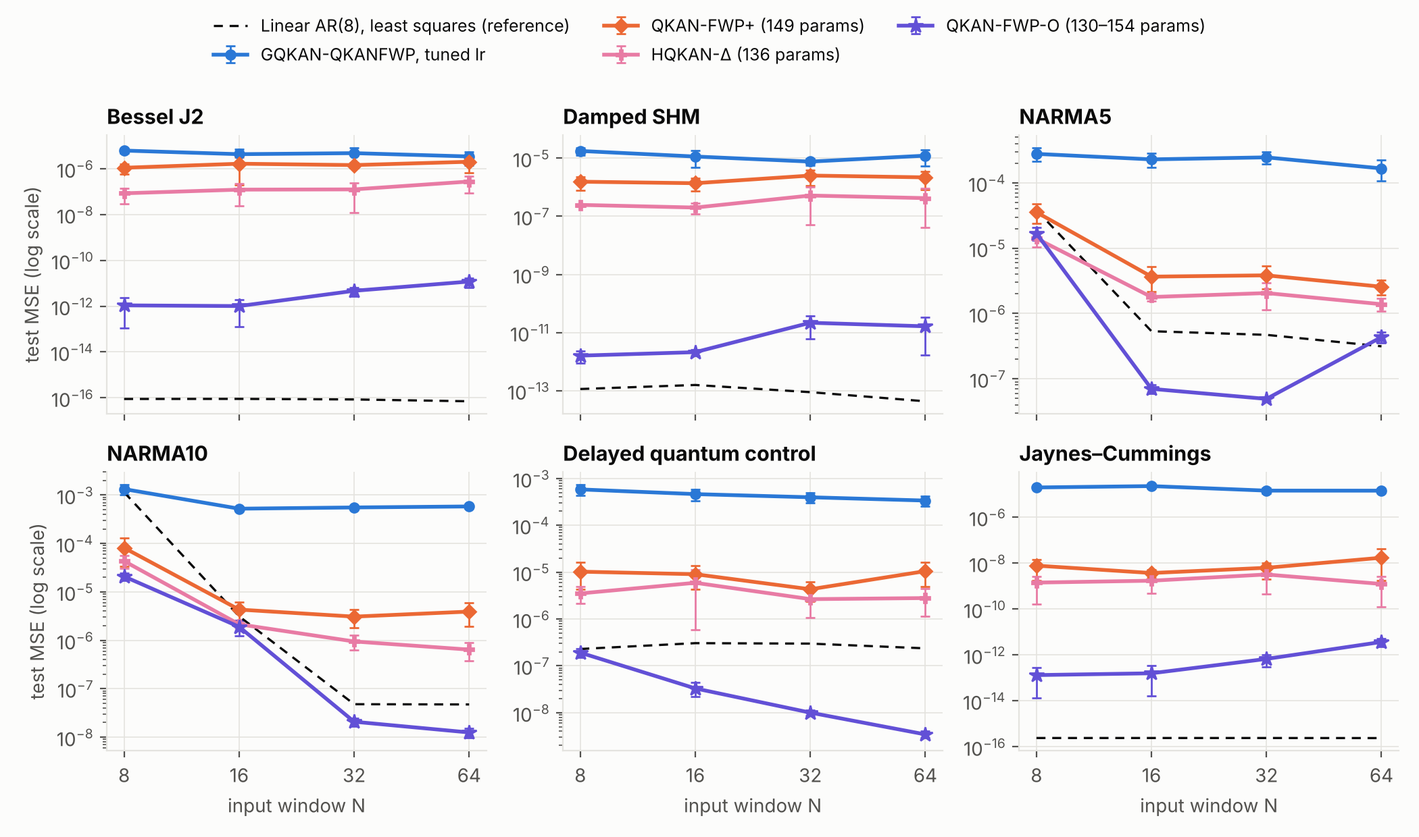
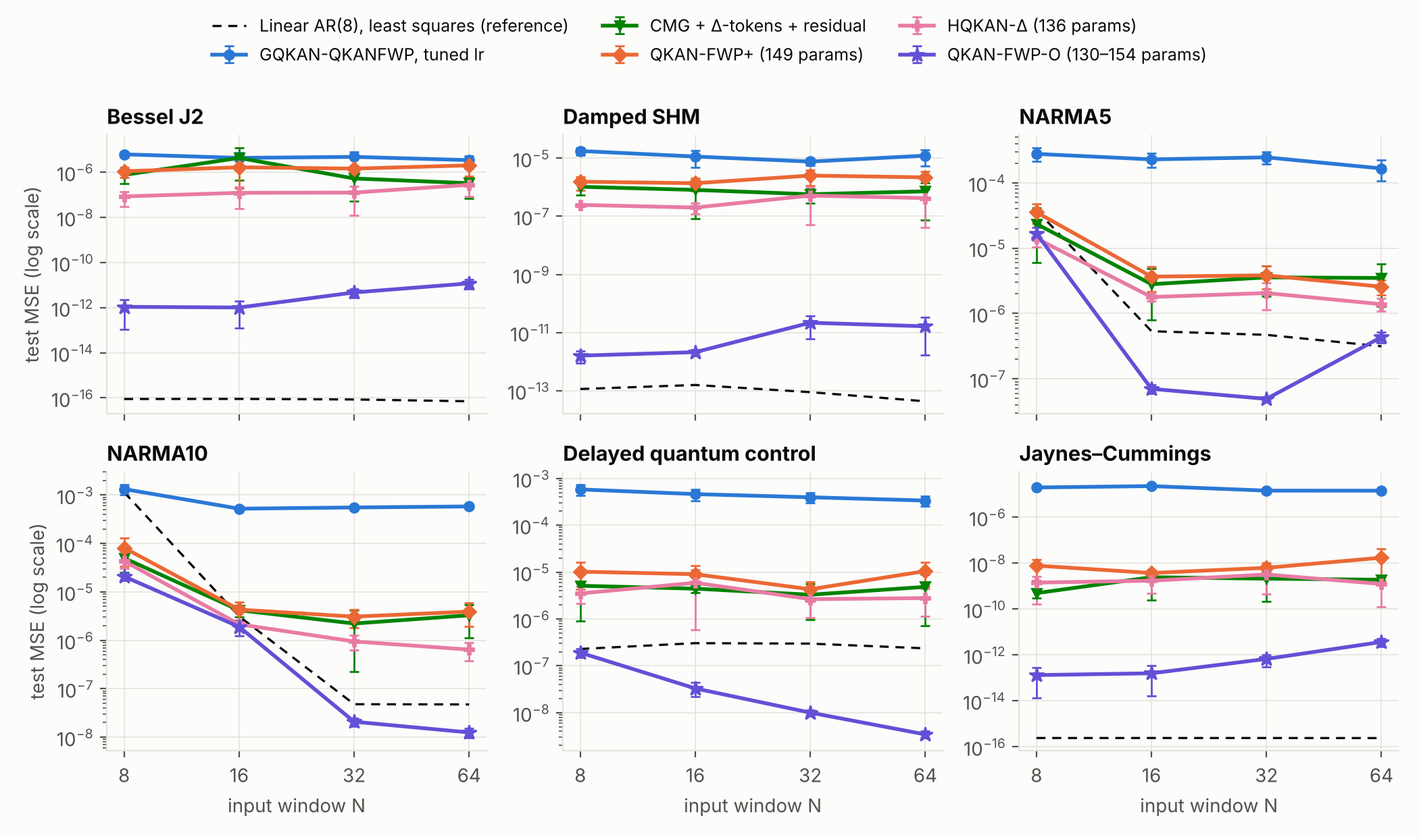
Results: Jaynes-Cummings controls, validated CMG runs, programmed-axis shots
Claude-Session: https://claude.ai/code/session_016nXnsLn5FE7GbFMSeiQvNh

diff --git a/experiments/report/report_text.py b/experiments/report/report_text.py
@@ -354,7 +354,7 @@ NEGATIVE = r'''## 9. 沒有效果、或要小心的地方
 | 太陽黑子：單獨的 chrono 初始化（scalar gate） | 0.0185 對 0.0184 | 一個 gate 只有一個時間尺度 |
 | 太陽黑子：平滑的輸出基底（QKAN-FWP+） | validation 與 test 都沒有改善 | 省 2,000 個參數，但不降誤差 |
 | 太陽黑子：QKAN-FWP-O 的 in-context 記憶 | 依 target 時間切分後，有記憶的版本在三種切分的 test MSE 都比靜態版本差（8.2 節） | 這個任務上有用的是精簡的參數化，不是記憶 |
-| 太陽黑子：論文的 window 索引切分 | 相鄰 split 的 targets 重疊 131 個月；改成依 target 時間切分後，「比 baseline 低 19–25%」不再成立（8.3 節） | Validation 看得到 test 期間的資料 |
+| 太陽黑子：論文的 window 索引切分 | 相鄰 split 的 targets 重疊 131 個月。這個切法下 QKAN-FWP-O 比 baseline 低 17–24%；依 target 時間切分後是 −17%、+4%、−19%（8.2、8.3 節） | Validation 看得到 test 期間的資料 |
 | QKAN-FWP-O：切線特徵 $u\,\partial\mathbf n/\partial u$（可用 parameter-shift 量得，讓 context 對電路頻率做一階調整） | 論文 benchmark 的 validation 上，4 個電路＋切線特徵（140 參數）不如 6 個電路（154 參數）：幾何平均 6.3e-9 對 3.3e-9。和同為 4 個電路的版本比（單一 seed），無雜訊的 Duffing 好 5.6 倍、Hénon 好約 10%，有雜訊的 Duffing 沒有改善 | 對非線性系統有幫助，但同樣的參數用在更多電路效果相當或更好；程式保留為選項（`tangent`） |
 
 兩個資料上的注意事項：
@@ -490,8 +490,9 @@ RESULTS_TS = r'''## 5. 結果：論文的六個 time-series benchmark
 - **差距的大小依資料集而定，不能用一個數字概括。** 對 HQKAN-Δ：Bessel 與 Damped SHM 低四到五個數量級，Jaynes–Cummings 低三個數量級，
   DQC 低兩個數量級，**NARMA 只低 7–9 倍**。整體幾何平均（683 倍）主要由那三條幾乎線性的序列決定；
   其中 Jaynes–Cummings 的差距來自線性項與數值精度，不是來自記憶（5.4 節）。
-- **CMG**：照 CMG 論文的設定（純量 token、188 參數），lr 由 validation 選出後和 scalar gate 的 baseline 同一個水準。
-  給它相同的 Δ-token 與 residual 讀出之後，它和 QKAN-FWP+ 相當或略好，但仍然輸給沒有記憶的 HQKAN-Δ。
+- **CMG**：照 CMG 論文的設定（純量 token、188 參數），lr 由 validation 選出後和 scalar gate 的 baseline 同一個水準
+  （Bessel、Damped SHM 與 Jaynes–Cummings 較好，NARMA 與 DQC 沒有改善）。給它相同的 Δ-token 與 residual 讀出之後，
+  它比 QKAN-FWP+ 好 2 倍（24 格中 22 格），但整體仍比沒有記憶的 HQKAN-Δ 差 2 倍（24 格中 21 格較差；Jaynes–Cummings 上兩者相當）。
 - **HQKAN-Δ 在每一格都比 QKAN-FWP+ 好**：在這些 benchmark 上，「由 slow programmer 產生旋轉角」這種型態的記憶沒有幫助，
   把同樣的參數放進靜態網路反而更好。因為這個結論重要，QKAN-FWP+ 與 HQKAN-Δ 另外各加跑 10 個 seed
   （`results/extra_seeds.jsonl`，5 個序列 × N ∈ {16, 64}）：15 個 seed 合計 HQKAN-Δ 好 2.5 倍，10 格中贏 9 格。
@@ -558,8 +559,8 @@ Jaynes–Cummings 單獨列在它自己那一欄。
 
 - **沒有記憶。** 參數量相當（9 個電路，最多 154 個參數）的靜態模型在五個 300 點序列上差 164 倍，和 6 個電路的靜態模型（190 倍）同一個水準：
   Bessel 與 Damped SHM 差三到四個數量級，DQC 差 55 倍，NARMA 差 5–7 倍。差距不是參數量造成的。
-  **Jaynes–Cummings 是例外**：這條 3000 點的序列嚴格滿足線性遞迴，靜態版本靠線性項就能用梯度訓練擬合到 4e-13，
-  記憶沒有帶來額外的好處。QKAN-FWP-O 在 Jaynes–Cummings 上對 HQKAN-Δ 的優勢因此來自線性項與數值精度，不是記憶。
+  **Jaynes–Cummings 是例外**：這條 3000 點的序列嚴格滿足線性遞迴，靜態版本靠線性項就能用梯度訓練擬合到 1.3e-13（9 個電路）
+  與 4.0e-13（6 個電路），和有記憶的版本（4.7e-13）相當或更低；記憶沒有帶來額外的好處。QKAN-FWP-O 在 Jaynes–Cummings 上對 HQKAN-Δ 的優勢因此來自線性項與數值精度，不是記憶。
 - **指數加權 RLS**（先驗只當初始值，$C_t = gC_{t-1} + (1-g)k_tk_t^\top$）整體是 0.54 倍，也就是**比主模型好**：
   Bessel 好 3.5 倍、Damped SHM 好 14 倍、DQC 好 1.6 倍，NARMA 則差 1.8 倍。它的有效先驗是 $\Lambda_0\prod_t g_t$，context 越長越弱，
   所以在沒有雜訊的平滑序列上擬合得更準；NARMA 只用最近一兩個配對（見下），先驗被忘掉之後反而較差。
@@ -728,7 +729,8 @@ query 的量測基底可以由 context 決定（7.3 節），以及 context 與 
 可以用這個欄位換算（例如 HQKAN-Δ 在同樣的總預算下可以用 4.5 倍的 $S$）。
 
 每個模型訓練兩次：用精確期望值，以及訓練時就帶著 $S = 10^4$ 的抽樣雜訊（noise-aware）。
-系統族的兩個任務所有模型都用 lr 3e-2。
+系統族的兩個任務所有模型都用 lr 3e-2。QKAN-FWP-O 有三列：預設（所有電路量 X、Y、Z）、query 改沿 context 決定的量測軸讀出（7.3 節），
+以及內部用 float32 的版本（7.2 節）。
 
 ![shots](figures/om_shots.png)
 
@@ -738,16 +740,17 @@ query 的量測基底可以由 context 決定（7.3 節），以及 context 與 
   Hénon 在 $S \le 10^3$ 時比另外兩個模型差一個數量級。學到的先驗精度很小（7.2 節），量測雜訊被線性求解放大。
 - **Noise-aware 訓練大幅改善**，而且在接近線性的任務上（Bessel、DQC、阻尼振盪）幾乎不再受 $S$ 影響：$S = 10^2$ 時 Bessel 是 8.7e-11、
   DQC 是 7.8e-7。但原因要說清楚：模型改為主要依賴 base-activation 的**線性項——它是古典計算的，沒有量測雜訊**——
-  而把帶雜訊的 Bloch 特徵的權重降下來。這等於退回 5.4 節的古典對照組；在這些任務上量子特徵本來就沒有貢獻。
+  而把帶雜訊的 Bloch 特徵的權重降下來。這等於退回 5.4 節「只留線性項」的對照；在這些任務上非線性特徵本來就幾乎沒有貢獻。
 - **真正需要非線性特徵的 Hénon map 才是有意義的測試。** Noise-aware 的 QKAN-FWP-O 在 $S = 10^4$ 是 2.8e-4（HQKAN-Δ 1.6e-3、
   QKAN-FWP+ 1.0e-3），$S = 10^3$ 時三者相當（1.6e-3／2.3e-3／2.3e-3），**$S = 10^2$ 時輸給 HQKAN-Δ**（1.4e-2 對 9.0e-3）。
-  而且 HQKAN-Δ 每次預測只跑 12 個電路，QKAN-FWP-O 是 54 個：以相同的總量測次數比較，QKAN-FWP-O 在 Hénon 上要到每次預測
-  約 $5\times10^5$ 次量測（$S \approx 10^4$）以上才有優勢。
+  Query 改沿 context 決定的量測軸讀出之後是 2.1e-4、1.2e-3、9.7e-3：$S = 10^3$ 時比另外兩個模型低約 2 倍，$S = 10^2$ 時與 HQKAN-Δ 相當。
+  但 HQKAN-Δ 每次預測只跑 12 個電路，QKAN-FWP-O 是 54 個：以相同的總量測次數比較，QKAN-FWP-O 在 Hénon 上要到每次預測
+  約 $10^5$ 次量測以上才有明顯的優勢。
 - **NARMA10**：兩種訓練方式下 QKAN-FWP-O 在 $S \le 10^4$ 都低於另外兩個模型（$S = 10^2$ 時 7e-5 ～ 1.4e-4 對 7e-4 ～ 2.7e-3），
   $S$ 更大時三者同一個量級。
 - 另外兩個模型同樣受量測雜訊影響：$S \le 10^3$ 時它們的誤差由量測雜訊主導、大致與 $1/S$ 成正比。
-- 第 6 節的古典特徵對照組（同一個記憶配上 tanh 特徵）完全不需要量測，所以沒有這一節討論的任何退化。
-  在本報告測過的任務上，它在精確期望值下已經和 QKAN-FWP-O 一樣好；有限量測次數只會讓量子電路的版本更差。
+- 第 6 節用古典特徵的對照（同一個記憶配上 Fourier、tanh 或 MLP 特徵）完全不需要量測，所以沒有這一節討論的任何退化。
+  在本報告測過的任務上，它們在精確期望值下已經和 QKAN-FWP-O 一樣好或更好；有限量測次數只會讓量子電路的版本更差。
 - 這裡只有統計（shot）雜訊，沒有硬體的閘誤差與退相干；真機沒有測。
 
 ### 7.2 Gram 矩陣的條件數與單精度
@@ -758,8 +761,9 @@ $C_T \succeq \Lambda_0$，所以條件數不超過 $(\lambda_{\max}(\Lambda_0) +
 <<shots_cond>>
 
 - 條件數的中位數在論文的 benchmark 上約為 $10^5$–$10^6$：先驗精度的初值 $10^{-5}$ 是在 validation 上選的，在這些乾淨的序列上
-  訓練後大致停在那裡（5.4 節的表）。在有雜訊的系統族上模型把先驗精度學大，條件數約為 $10^2$；noise-aware 訓練也會學到較大的
-  先驗精度，條件數降 3–10 倍（Bessel 例外）。量測次數本身幾乎不改變條件數：它由先驗精度與特徵的尺度決定。
+  訓練後大致停在那裡（5.4 節的記憶權重表）。在有雜訊的系統族上模型把先驗精度學大，條件數約為 $10^2$；noise-aware 訓練也會學到較大的
+  先驗精度，條件數在 NARMA10、DQC 與 Hénon 上降 3–20 倍（Bessel 與有雜訊的阻尼振盪不變）。
+  量測次數本身幾乎不改變條件數：它由先驗精度與特徵的尺度決定。
 - **單精度。** 其他模型都在 float32 下訓練，QKAN-FWP-O 預設用 float64，這是不對稱的。把特徵、統計量與求解全部改成 float32
   （`precision='float32'`；token 與增量仍和其他模型一樣先用 float64 形成）之後，上表五個任務的 MSE 與 float64 幾乎相同，
   Bessel 仍是 1.4e-12。條件數 $10^6$ 乘上 float32 的 $6\times10^{-8}$ 表示 $R_T$ 的各個分量只有一到兩位有效數字，
@@ -889,7 +893,8 @@ RESULTS_SOLAR = r'''## 8. 結果：太陽黑子週期預測
 在論文的切法下，QKAN-FWP-O 的兩個版本在三種比例都比重新實作的 baseline 低 17–25%，有記憶的版本在 80/10/10 還是最低的（0.0134）。
 **這些數字不能當成預測優勢的證據**：validation 的 targets 延伸到 test 期間，checkpoint 與 lr 的選擇看得到當時還沒發生的資料。
 改成依 target 時間切分之後（8.2 節），有記憶的版本在 80/10/10 從 0.0134 變成 0.0173，baseline 從 0.0177 變成 0.0208，
-「三種切分都低 19–25%」的結論不再成立。這一節的表只用來和論文印出的數字（同樣的切法）對照：重新實作的 baseline 是 0.0177，論文印的是 0.0168。
+它相對 baseline 的差距在三種切分變成 −17%、+4%、−19%。這一節的表只用來和論文印出的數字（同樣的切法）對照：
+重新實作的 baseline 是 0.0177，論文印的是 0.0168。
 
 QKAN-FWP+ 的兩個部分（同樣是論文的切法，lr 2.5e-3；下面的圖也是這個切法下的預測）：
 
@@ -957,7 +962,7 @@ SUMMARY = r'''## 摘要
      5% 時是 1.6 倍；HQKAN-Δ 與 QKAN-FWP+ 是 13–20 倍與約 190–290 倍。把同一個誤差只放在 query 的電路，Bessel 差 8 萬倍——
      誤差是因為同時出現在 context 與 query 才被最小平方吸收（7.4 節）。
 4. **論文型態的記憶（由 slow programmer 產生旋轉角）在這些 benchmark 上沒有幫助**：沒有 fast weights 的 HQKAN-Δ
-   在每一格都比 QKAN-FWP+ 好（15 個 seed 合計 2.5 倍），也比給了相同 token 的 CMG 好。有用的是記憶的型態，不是有沒有記憶。
+   在每一格都比 QKAN-FWP+ 好（15 個 seed 合計 2.5 倍），也在 24 格中的 21 格比給了相同 token 的 CMG 好。有用的是記憶的型態，不是有沒有記憶。
 5. **太陽黑子**（第 8 節）：論文對 sliding window 的索引做切分，相鄰 split 的 targets 重疊 131 個月。改成依 target 時間切分之後，
    沒有模型穩定贏過零參數的「重複上一個週期」；QKAN-FWP-O 的靜態版本以 496 個參數（論文模型的 4%）在三種切分上都比重新實作的
    baseline 低（7–28%），有記憶的版本則比靜態版本差。

diff --git a/results/tables_om.md b/results/tables_om.md
@@ -14,7 +14,7 @@
 | NARMA5 | 6.5e-06 | 2.3e-04 | 2.8e-04 | 5.4e-06 | 6.0e-06 | 2.9e-06 | **4.0e-07** | *1.3e-06* |
 | NARMA10 | 9.5e-06 | 6.9e-04 | 7.6e-04 | 6.3e-06 | 8.1e-06 | 2.7e-06 | **3.2e-07** | *1.7e-06* |
 | Delayed quantum control | 5.5e-06 | 4.4e-04 | 7.5e-04 | 4.4e-06 | 8.0e-06 | 3.5e-06 | **2.2e-08** | *2.6e-07* |
-| Jaynes–Cummings | 7.6e-06 | 1.7e-05 | 6.5e-06 | – | 7.4e-09 | 1.7e-09 | **4.7e-13** | *2.4e-16* |
+| Jaynes–Cummings | 7.6e-06 | 1.7e-05 | 6.5e-06 | 1.5e-09 | 7.4e-09 | 1.7e-09 | **4.7e-13** | *2.4e-16* |
 
 ## Each model against every reference (geometric-mean test-MSE factor; in brackets: cells where the model is lower)
 
@@ -28,7 +28,7 @@ Values below 1e-15 (rounding of the float32 targets) are clipped at 1e-15 before
 | G-QKANFWP, tuned lr | 175 | 33× lower (23/24) | 129× lower (24/24) | 8.8e4× lower (24/24) |
 | CMG, lr 1e-3 | 188 | 123× lower (20/20) | 478× lower (20/20) | 2.3e5× lower (20/20) |
 | CMG, tuned lr | 188 | 31× lower (21/24) | 122× lower (24/24) | 8.3e4× lower (24/24) |
-| CMG + Δ-tokens + residual, tuned lr | 173 | 1.6× higher (2/20) | 2.4× lower (19/20) | 1166× lower (20/20) |
+| CMG + Δ-tokens + residual, tuned lr | 173 | 2× higher (2/24) | 2× lower (21/24) | 1372× lower (24/24) |
 | QKAN-FWP+ | 149 | – | 3.9× lower (24/24) | 2688× lower (24/24) |
 | HQKAN-Δ | 136 | 3.9× higher (0/24) | – | 683× lower (23/24) |
 | *Printed for GQKAN-QKANFWP in arXiv:2605.06734* | 159 | 40× lower (23/24) | 158× lower (24/24) | 1.1e5× lower (24/24) |
@@ -43,7 +43,7 @@ Geometric mean over the four windows per dataset; the last two columns count the
 |---|---|---|---|---|---|---|---|---|
 | GQKAN-QKANFWP, tuned lr | 1.6e6× | 2.0e6× | 568× | 2165× | 2.0e4× | 3.6e7× | 24/24 | 17× … 1.5e8× |
 | CMG, tuned lr | 9.5e5× | 4.3e5× | 715× | 2388× | 3.5e4× | 1.4e7× | 24/24 | 19× … 1.1e8× |
-| CMG + Δ-tokens + residual, tuned lr | 3.1e5× | 1.3e5× | 13× | 20× | 202× | – | 20/20 | 1.4× … 4.2e6× |
+| CMG + Δ-tokens + residual, tuned lr | 3.1e5× | 1.3e5× | 13× | 20× | 202× | 3085× | 24/24 | 1.4× … 4.2e6× |
 | QKAN-FWP+ | 5.4e5× | 3.2e5× | 15× | 25× | 373× | 1.6e4× | 24/24 | 2.1× … 1.6e6× |
 | HQKAN-Δ | 4.9e4× | 5.5e4× | 7.3× | 8.6× | 163× | 3677× | 23/24 | 0.84× … 1.6e5× |
 | *Linear AR(8), least squares* | 0.00036× | 0.015× | 3.3× | 5.3× | 12× | 0.0021× | 11/24 | 8.4e-05× … 69× |
@@ -72,10 +72,10 @@ Geometric mean over the four windows per dataset; the last two columns count the
 | Delayed quantum control | 16 | 2.04e-03 ± 4.3e-04 | 4.63e-04 ± 1.3e-04 | 1.27e-03 ± 1.9e-04 | 4.72e-04 ± 6.8e-05 | 3.42e-03 ± 1.6e-03 | 1.12e-03 ± 3.4e-04 | 4.44e-06 ± 8.2e-07 | 9.03e-06 ± 4.8e-06 | 5.92e-06 ± 5.4e-06 | **3.30e-08 ± 1.1e-08** | *3.0e-07* |
 | Delayed quantum control | 32 | 1.91e-03 ± 6.1e-04 | 3.96e-04 ± 9.7e-05 | 8.12e-04 ± 2.1e-04 | 3.15e-04 ± 9.4e-05 | 2.71e-03 ± 8.4e-04 | 5.08e-04 ± 1.3e-04 | 3.30e-06 ± 2.3e-06 | 4.31e-06 ± 2.0e-06 | 2.65e-06 ± 1.6e-06 | **1.00e-08 ± 1.3e-09** | *3.0e-07* |
 | Delayed quantum control | 64 | 1.20e-03 ± 3.3e-04 | 3.37e-04 ± 8.5e-05 | 8.04e-04 ± 7.4e-05 | 3.15e-04 ± 1.1e-04 | 2.90e-03 ± 1.5e-03 | 5.79e-04 ± 1.4e-04 | 4.85e-06 ± 4.1e-06 | 1.05e-05 ± 5.6e-06 | 2.80e-06 ± 1.6e-06 | **3.44e-09 ± 5.7e-10** | *2.4e-07* |
-| Jaynes–Cummings | 8 | 2.75e-05 ± 1.7e-05 | 1.95e-05 ± 2.5e-06 | 5.04e-05 ± 1.1e-05 | 1.55e-05 ± 4.8e-06 | – | 1.48e-05 ± 2.1e-06 | – | 7.71e-09 ± 6.0e-09 | 1.41e-09 ± 1.2e-09 | **1.32e-13 ± 1.5e-13** | *2.4e-16* |
-| Jaynes–Cummings | 16 | 4.25e-05 ± 4.8e-05 | 2.24e-05 ± 3.5e-06 | 5.25e-05 ± 2.1e-06 | 1.01e-05 ± 2.6e-06 | – | 6.00e-06 ± 4.6e-06 | – | 3.68e-09 ± 1.5e-09 | 1.70e-09 ± 1.2e-09 | **1.58e-13 ± 1.7e-13** | *2.4e-16* |
-| Jaynes–Cummings | 32 | 3.38e-05 ± 4.1e-05 | 1.42e-05 ± 3.6e-06 | 2.02e-05 ± 4.1e-06 | 1.13e-05 ± 3.8e-06 | – | 2.94e-06 ± 3.1e-06 | – | 6.20e-09 ± 4.2e-09 | 3.17e-09 ± 2.7e-09 | **6.68e-13 ± 3.8e-13** | *2.4e-16* |
-| Jaynes–Cummings | 64 | 6.66e-05 ± 5.4e-05 | 1.42e-05 ± 2.6e-06 | 2.71e-05 ± 6.1e-06 | 1.02e-05 ± 2.9e-06 | – | 6.88e-06 ± 6.3e-06 | – | 1.71e-08 ± 2.6e-08 | 1.22e-09 ± 1.4e-09 | **3.65e-12 ± 1.4e-12** | *2.4e-16* |
+| Jaynes–Cummings | 8 | 2.75e-05 ± 1.7e-05 | 1.95e-05 ± 2.5e-06 | 5.04e-05 ± 1.1e-05 | 1.55e-05 ± 4.8e-06 | – | 1.48e-05 ± 2.1e-06 | 4.89e-10 ± 1.9e-10 | 7.71e-09 ± 6.0e-09 | 1.41e-09 ± 1.2e-09 | **1.32e-13 ± 1.5e-13** | *2.4e-16* |
+| Jaynes–Cummings | 16 | 4.25e-05 ± 4.8e-05 | 2.24e-05 ± 3.5e-06 | 5.25e-05 ± 2.1e-06 | 1.01e-05 ± 2.6e-06 | – | 6.00e-06 ± 4.6e-06 | 2.41e-09 ± 2.3e-09 | 3.68e-09 ± 1.5e-09 | 1.70e-09 ± 1.2e-09 | **1.58e-13 ± 1.7e-13** | *2.4e-16* |
+| Jaynes–Cummings | 32 | 3.38e-05 ± 4.1e-05 | 1.42e-05 ± 3.6e-06 | 2.02e-05 ± 4.1e-06 | 1.13e-05 ± 3.8e-06 | – | 2.94e-06 ± 3.1e-06 | 2.09e-09 ± 1.9e-09 | 6.20e-09 ± 4.2e-09 | 3.17e-09 ± 2.7e-09 | **6.68e-13 ± 3.8e-13** | *2.4e-16* |
+| Jaynes–Cummings | 64 | 6.66e-05 ± 5.4e-05 | 1.42e-05 ± 2.6e-06 | 2.71e-05 ± 6.1e-06 | 1.02e-05 ± 2.9e-06 | – | 6.88e-06 ± 6.3e-06 | 1.87e-09 ± 7.7e-10 | 1.71e-08 ± 2.6e-08 | 1.22e-09 ± 1.4e-09 | **3.65e-12 ± 1.4e-12** | *2.4e-16* |
 
 ## Closed-form linear autoregression against the best models (test MSE)
 
@@ -117,11 +117,11 @@ Geometric mean over the four windows per dataset; the last two columns count the
 |---|---|---|---|---|---|---|---|---|
 | Bloch vectors of 6 circuits, reps = 1 (QKAN-FWP-O) | 130–154 | 2.8e-12 | 5.9e-12 | 4.0e-07 | 3.2e-07 | 2.2e-08 | 4.7e-13 | – |
 | cos u, sin u of the same 6 units (same function space, no circuit) | 88–112 | 2.9e-12 | 6.0e-12 | 4.2e-07 | 4.3e-07 | 2.5e-08 | – | 1.1× |
-| cos u, sin u of 8 units (same number of features) | 116–148 | 2.0e-12 | 4.6e-12 | 3.7e-07 | 3.1e-07 | 3.1e-08 | – | 0.94× |
+| cos u, sin u of 8 units (same number of features) | 116–148 | 2.0e-12 | 4.6e-12 | 3.7e-07 | 3.1e-07 | 3.1e-08 | 5.0e-13 | 0.94× |
 | cos(w·u + b), 3 per unit, w and b trainable | 142–166 | 2.7e-12 | 6.4e-12 | 4.2e-07 | 5.3e-07 | 2.0e-08 | 4.4e-13 | 1.1× |
 | tanh(w·u + b), 3 per unit | 142–166 | 2.5e-12 | 5.5e-12 | 4.4e-07 | 2.9e-07 | 2.1e-08 | 3.8e-13 | 0.95× |
-| products u_i·u_j (quadratic polynomial) | 115–139 | 8.8e-13 | 8.2e-12 | 5.2e-07 | 5.4e-07 | 5.3e-08 | – | 1.2× |
-| 8 tanh units of a second layer (small MLP) | 132–156 | 1.7e-12 | 2.9e-12 | 6.3e-07 | 3.1e-07 | 2.6e-08 | – | 0.89× |
+| products u_i·u_j (quadratic polynomial) | 115–139 | 8.8e-13 | 8.2e-12 | 5.2e-07 | 5.4e-07 | 5.3e-08 | 2.2e-13 | 1.2× |
+| 8 tanh units of a second layer (small MLP) | 132–156 | 1.7e-12 | 2.9e-12 | 6.3e-07 | 3.1e-07 | 2.6e-08 | 1.6e-13 | 0.89× |
 | linear term only | 52–76 | 1.4e-12 | 1.9e-11 | 6.4e-07 | 4.5e-07 | 4.9e-08 | 1.1e-13 | 1.5× |
 
 ## Same features, different memory rule on the paper benchmarks (test MSE, geometric mean over the four windows; last column: factor to the first row over the 20 cells of the five 300-point series)
@@ -133,7 +133,7 @@ Geometric mean over the four windows per dataset; the last two columns count the
 | least squares without gate (uniform weights) | 104–128 | 3.4e-12 | 3.0e-12 | 1.2e-06 | 1.5e-06 | 3.0e-08 | – | 1.7× |
 | normalised delta rule, 4 sweeps over the context | 130–154 | 1.3e-09 | 3.9e-08 | 9.5e-07 | 1.5e-06 | 4.5e-07 | – | 59× |
 | normalised delta rule, 1 sweep | 130–154 | 2.5e-09 | 2.3e-08 | 9.2e-07 | 1.5e-06 | 4.9e-07 | – | 62× |
-| no memory, 9 circuits (same number of parameters) | 118–154 | 1.4e-08 | 8.5e-08 | 2.0e-06 | 2.0e-06 | 1.2e-06 | – | 164× |
+| no memory, 9 circuits (same number of parameters) | 118–154 | 1.4e-08 | 8.5e-08 | 2.0e-06 | 2.0e-06 | 1.2e-06 | 1.3e-13 | 164× |
 | no memory, 6 circuits | 79–103 | 2.4e-08 | 9.3e-08 | 2.1e-06 | 2.2e-06 | 1.2e-06 | 4.0e-13 | 190× |
 
 ## QKAN-FWP-O ablation on the paper benchmarks (test MSE ÷ full model, geometric mean over the cells both have)
@@ -268,6 +268,8 @@ S shots are available to every circuit for every input it processes. A ⟨Z⟩ r
 |---|---|---|---|---|---|---|---|---|---|
 | Bessel J2 | QKAN-FWP-O | 54 | exact | 5.1e-06 | 6.9e-07 | 9.0e-08 | 1.3e-08 | 1.7e-09 | 1.4e-12 |
 | Bessel J2 | QKAN-FWP-O | 54 | S = 10⁴ | 8.7e-11 | 1.4e-11 | 3.1e-12 | 3.0e-13 | 5.8e-14 | 2.7e-14 |
+| Bessel J2 | QKAN-FWP-O, query read along the programmed axis | 54 | exact | 2.8e-06 | 4.4e-07 | 5.4e-08 | 1.1e-08 | 1.3e-09 | 1.4e-12 |
+| Bessel J2 | QKAN-FWP-O, query read along the programmed axis | 54 | S = 10⁴ | 3.4e-11 | 6.6e-12 | 1.8e-12 | 2.5e-13 | 4.5e-14 | 2.2e-14 |
 | Bessel J2 | QKAN-FWP-O, float32 | 54 | exact | 5.4e-06 | 7.0e-07 | 8.7e-08 | 1.3e-08 | 1.7e-09 | 1.4e-12 |
 | Bessel J2 | QKAN-FWP-O, float32 | 54 | S = 10⁴ | 7.0e-11 | 1.6e-11 | 3.6e-12 | 4.0e-13 | 6.6e-14 | 3.2e-14 |
 | Bessel J2 | HQKAN-Δ, ⟨Z⟩ read-out | 12 | exact | 2.2e-03 | 2.4e-04 | 2.3e-05 | 2.5e-06 | 5.2e-07 | 2.8e-07 |
@@ -276,6 +278,8 @@ S shots are available to every circuit for every input it processes. A ⟨Z⟩ r
 | Bessel J2 | QKAN-FWP+, ⟨Z⟩ read-out | 92 | S = 10⁴ | 1.5e-03 | 1.6e-04 | 1.6e-05 | 2.2e-06 | 9.1e-07 | 7.4e-07 |
 | NARMA10 | QKAN-FWP-O | 54 | exact | 1.4e-04 | 3.1e-05 | 8.8e-06 | 3.7e-06 | 2.2e-06 | 2.0e-06 |
 | NARMA10 | QKAN-FWP-O | 54 | S = 10⁴ | 7.3e-05 | 1.6e-05 | 8.0e-06 | 5.9e-06 | 5.4e-06 | 5.3e-06 |
+| NARMA10 | QKAN-FWP-O, query read along the programmed axis | 54 | exact | 1.0e-04 | 2.6e-05 | 8.2e-06 | 3.6e-06 | 2.2e-06 | 2.0e-06 |
+| NARMA10 | QKAN-FWP-O, query read along the programmed axis | 54 | S = 10⁴ | 4.1e-05 | 8.6e-06 | 4.0e-06 | 2.8e-06 | 2.5e-06 | 2.4e-06 |
 | NARMA10 | QKAN-FWP-O, float32 | 54 | exact | 4.1e-04 | 9.1e-05 | 2.2e-05 | 1.1e-05 | 9.2e-06 | 8.9e-06 |
 | NARMA10 | QKAN-FWP-O, float32 | 54 | S = 10⁴ | 1.1e-04 | 2.1e-05 | 6.5e-06 | 3.9e-06 | 3.4e-06 | 3.3e-06 |
 | NARMA10 | HQKAN-Δ, ⟨Z⟩ read-out | 12 | exact | 1.4e-03 | 1.4e-04 | 1.7e-05 | 4.3e-06 | 3.0e-06 | 2.9e-06 |
@@ -284,6 +288,8 @@ S shots are available to every circuit for every input it processes. A ⟨Z⟩ r
 | NARMA10 | QKAN-FWP+, ⟨Z⟩ read-out | 92 | S = 10⁴ | 1.7e-03 | 2.1e-04 | 2.9e-05 | 1.3e-05 | 1.1e-05 | 1.1e-05 |
 | Delayed quantum control | QKAN-FWP-O | 54 | exact | 7.8e-05 | 1.2e-05 | 2.5e-06 | 5.0e-07 | 1.2e-07 | 3.2e-08 |
 | Delayed quantum control | QKAN-FWP-O | 54 | S = 10⁴ | 7.8e-07 | 1.8e-07 | 7.4e-08 | 5.1e-08 | 4.9e-08 | 4.8e-08 |
+| Delayed quantum control | QKAN-FWP-O, query read along the programmed axis | 54 | exact | 3.9e-05 | 7.8e-06 | 1.8e-06 | 4.6e-07 | 1.0e-07 | 3.2e-08 |
+| Delayed quantum control | QKAN-FWP-O, query read along the programmed axis | 54 | S = 10⁴ | 3.8e-07 | 1.2e-07 | 5.8e-08 | 4.2e-08 | 4.1e-08 | 4.1e-08 |
 | Delayed quantum control | QKAN-FWP-O, float32 | 54 | exact | 6.5e-05 | 9.8e-06 | 1.9e-06 | 4.1e-07 | 1.1e-07 | 3.5e-08 |
 | Delayed quantum control | QKAN-FWP-O, float32 | 54 | S = 10⁴ | 7.2e-07 | 1.3e-07 | 5.0e-08 | 3.6e-08 | 3.3e-08 | 3.3e-08 |
 | Delayed quantum control | HQKAN-Δ, ⟨Z⟩ read-out | 12 | exact | 2.6e-03 | 2.7e-04 | 3.9e-05 | 1.6e-05 | 1.4e-05 | 1.4e-05 |
@@ -292,6 +298,8 @@ S shots are available to every circuit for every input it processes. A ⟨Z⟩ r
 | Delayed quantum control | QKAN-FWP+, ⟨Z⟩ read-out | 92 | S = 10⁴ | 2.5e-03 | 2.2e-04 | 3.1e-05 | 8.4e-06 | 6.3e-06 | 6.1e-06 |
 | Family: damped oscillation, noise 0.02 | QKAN-FWP-O | 54 | exact | 9.4e-04 | 9.1e-04 | 9.0e-04 | 9.0e-04 | 9.0e-04 | 9.0e-04 |
 | Family: damped oscillation, noise 0.02 | QKAN-FWP-O | 54 | S = 10⁴ | 9.4e-04 | 9.0e-04 | 9.0e-04 | 9.0e-04 | 9.0e-04 | 9.0e-04 |
+| Family: damped oscillation, noise 0.02 | QKAN-FWP-O, query read along the programmed axis | 54 | exact | 9.2e-04 | 9.1e-04 | 9.0e-04 | 9.0e-04 | 9.0e-04 | 9.0e-04 |
+| Family: damped oscillation, noise 0.02 | QKAN-FWP-O, query read along the programmed axis | 54 | S = 10⁴ | 9.3e-04 | 9.0e-04 | 9.0e-04 | 9.0e-04 | 9.0e-04 | 9.0e-04 |
 | Family: damped oscillation, noise 0.02 | QKAN-FWP-O, float32 | 54 | exact | 9.2e-04 | 9.0e-04 | 9.0e-04 | 9.0e-04 | 9.0e-04 | 9.0e-04 |
 | Family: damped oscillation, noise 0.02 | QKAN-FWP-O, float32 | 54 | S = 10⁴ | 9.4e-04 | 9.1e-04 | 9.1e-04 | 9.1e-04 | 9.1e-04 | 9.1e-04 |
 | Family: damped oscillation, noise 0.02 | HQKAN-Δ, ⟨Z⟩ read-out | 12 | exact | 8.7e-03 | 4.0e-03 | 3.5e-03 | 3.4e-03 | 3.4e-03 | 3.4e-03 |
@@ -300,6 +308,8 @@ S shots are available to every circuit for every input it processes. A ⟨Z⟩ r
 | Family: damped oscillation, noise 0.02 | QKAN-FWP+, ⟨Z⟩ read-out | 92 | S = 10⁴ | 1.0e-02 | 3.0e-03 | 2.3e-03 | 2.2e-03 | 2.2e-03 | 2.2e-03 |
 | Family: Hénon map | QKAN-FWP-O | 54 | exact | 1.2e-01 | 1.7e-02 | 2.3e-03 | 3.2e-04 | 6.6e-05 | 3.4e-05 |
 | Family: Hénon map | QKAN-FWP-O | 54 | S = 10⁴ | 1.4e-02 | 1.6e-03 | 2.8e-04 | 1.5e-04 | 1.4e-04 | 1.4e-04 |
+| Family: Hénon map | QKAN-FWP-O, query read along the programmed axis | 54 | exact | 5.5e-02 | 9.1e-03 | 1.5e-03 | 2.3e-04 | 5.5e-05 | 3.4e-05 |
+| Family: Hénon map | QKAN-FWP-O, query read along the programmed axis | 54 | S = 10⁴ | 9.7e-03 | 1.2e-03 | 2.1e-04 | 1.2e-04 | 1.1e-04 | 1.0e-04 |
 | Family: Hénon map | QKAN-FWP-O, float32 | 54 | exact | 1.2e-01 | 1.6e-02 | 2.3e-03 | 3.2e-04 | 6.8e-05 | 3.8e-05 |
 | Family: Hénon map | QKAN-FWP-O, float32 | 54 | S = 10⁴ | 1.4e-02 | 1.6e-03 | 2.8e-04 | 1.4e-04 | 1.3e-04 | 1.3e-04 |
 | Family: Hénon map | HQKAN-Δ, ⟨Z⟩ read-out | 12 | exact | 1.0e-02 | 2.4e-03 | 1.6e-03 | 1.5e-03 | 1.5e-03 | 1.5e-03 |
@@ -313,22 +323,32 @@ S shots are available to every circuit for every input it processes. A ⟨Z⟩ r
 |---|---|---|---|---|---|---|---|---|
 | Bessel J2 | QKAN-FWP-O | exact | 9e+05 | 9e+05 | 9e+05 | 9e+05 | 9e+05 | 9e+05 |
 | Bessel J2 | QKAN-FWP-O | S = 10⁴ | 1e+06 | 1e+06 | 1e+06 | 1e+06 | 1e+06 | 1e+06 |
+| Bessel J2 | QKAN-FWP-O, query read along the programmed axis | exact | 9e+05 | 9e+05 | 9e+05 | 9e+05 | 9e+05 | 9e+05 |
+| Bessel J2 | QKAN-FWP-O, query read along the programmed axis | S = 10⁴ | 1e+06 | 1e+06 | 1e+06 | 1e+06 | 1e+06 | 1e+06 |
 | Bessel J2 | QKAN-FWP-O, float32 | exact | 9e+05 | 9e+05 | 9e+05 | 9e+05 | 9e+05 | 9e+05 |
 | Bessel J2 | QKAN-FWP-O, float32 | S = 10⁴ | 1e+06 | 1e+06 | 1e+06 | 1e+06 | 1e+06 | 1e+06 |
 | NARMA10 | QKAN-FWP-O | exact | 2e+06 | 2e+06 | 2e+06 | 2e+06 | 2e+06 | 2e+06 |
 | NARMA10 | QKAN-FWP-O | S = 10⁴ | 1e+05 | 1e+05 | 1e+05 | 1e+05 | 1e+05 | 1e+05 |
+| NARMA10 | QKAN-FWP-O, query read along the programmed axis | exact | 2e+06 | 2e+06 | 2e+06 | 2e+06 | 2e+06 | 2e+06 |
+| NARMA10 | QKAN-FWP-O, query read along the programmed axis | S = 10⁴ | 7e+05 | 6e+05 | 5e+05 | 5e+05 | 5e+05 | 5e+05 |
 | NARMA10 | QKAN-FWP-O, float32 | exact | 1e+06 | 1e+06 | 1e+06 | 1e+06 | 1e+06 | 1e+06 |
 | NARMA10 | QKAN-FWP-O, float32 | S = 10⁴ | 8e+04 | 8e+04 | 8e+04 | 8e+04 | 8e+04 | 8e+04 |
 | Delayed quantum control | QKAN-FWP-O | exact | 1e+06 | 1e+06 | 1e+06 | 1e+06 | 1e+06 | 1e+06 |
 | Delayed quantum control | QKAN-FWP-O | S = 10⁴ | 3e+05 | 3e+05 | 3e+05 | 3e+05 | 3e+05 | 3e+05 |
+| Delayed quantum control | QKAN-FWP-O, query read along the programmed axis | exact | 1e+06 | 1e+06 | 1e+06 | 1e+06 | 1e+06 | 1e+06 |
+| Delayed quantum control | QKAN-FWP-O, query read along the programmed axis | S = 10⁴ | 5e+05 | 4e+05 | 4e+05 | 4e+05 | 4e+05 | 4e+05 |
 | Delayed quantum control | QKAN-FWP-O, float32 | exact | 1e+06 | 1e+06 | 1e+06 | 1e+06 | 1e+06 | 1e+06 |
 | Delayed quantum control | QKAN-FWP-O, float32 | S = 10⁴ | 6e+05 | 6e+05 | 6e+05 | 6e+05 | 6e+05 | 6e+05 |
 | Family: damped oscillation, noise 0.02 | QKAN-FWP-O | exact | 2e+02 | 2e+02 | 2e+02 | 2e+02 | 2e+02 | 2e+02 |
 | Family: damped oscillation, noise 0.02 | QKAN-FWP-O | S = 10⁴ | 2e+02 | 2e+02 | 2e+02 | 2e+02 | 2e+02 | 2e+02 |
+| Family: damped oscillation, noise 0.02 | QKAN-FWP-O, query read along the programmed axis | exact | 2e+02 | 2e+02 | 2e+02 | 2e+02 | 2e+02 | 2e+02 |
+| Family: damped oscillation, noise 0.02 | QKAN-FWP-O, query read along the programmed axis | S = 10⁴ | 4e+02 | 3e+02 | 3e+02 | 3e+02 | 3e+02 | 3e+02 |
 | Family: damped oscillation, noise 0.02 | QKAN-FWP-O, float32 | exact | 2e+02 | 2e+02 | 2e+02 | 2e+02 | 2e+02 | 2e+02 |
 | Family: damped oscillation, noise 0.02 | QKAN-FWP-O, float32 | S = 10⁴ | 1e+02 | 1e+02 | 1e+02 | 1e+02 | 1e+02 | 1e+02 |
 | Family: Hénon map | QKAN-FWP-O | exact | 1e+05 | 1e+05 | 1e+05 | 2e+05 | 2e+05 | 2e+05 |
 | Family: Hénon map | QKAN-FWP-O | S = 10⁴ | 2e+04 | 2e+04 | 2e+04 | 2e+04 | 2e+04 | 2e+04 |
+| Family: Hénon map | QKAN-FWP-O, query read along the programmed axis | exact | 1e+05 | 1e+05 | 1e+05 | 2e+05 | 2e+05 | 2e+05 |
+| Family: Hénon map | QKAN-FWP-O, query read along the programmed axis | S = 10⁴ | 4e+03 | 4e+03 | 4e+03 | 4e+03 | 4e+03 | 4e+03 |
 | Family: Hénon map | QKAN-FWP-O, float32 | exact | 1e+05 | 1e+05 | 1e+05 | 1e+05 | 2e+05 | 2e+05 |
 | Family: Hénon map | QKAN-FWP-O, float32 | S = 10⁴ | 3e+03 | 3e+03 | 3e+03 | 3e+03 | 3e+03 | 3e+03 |
 
